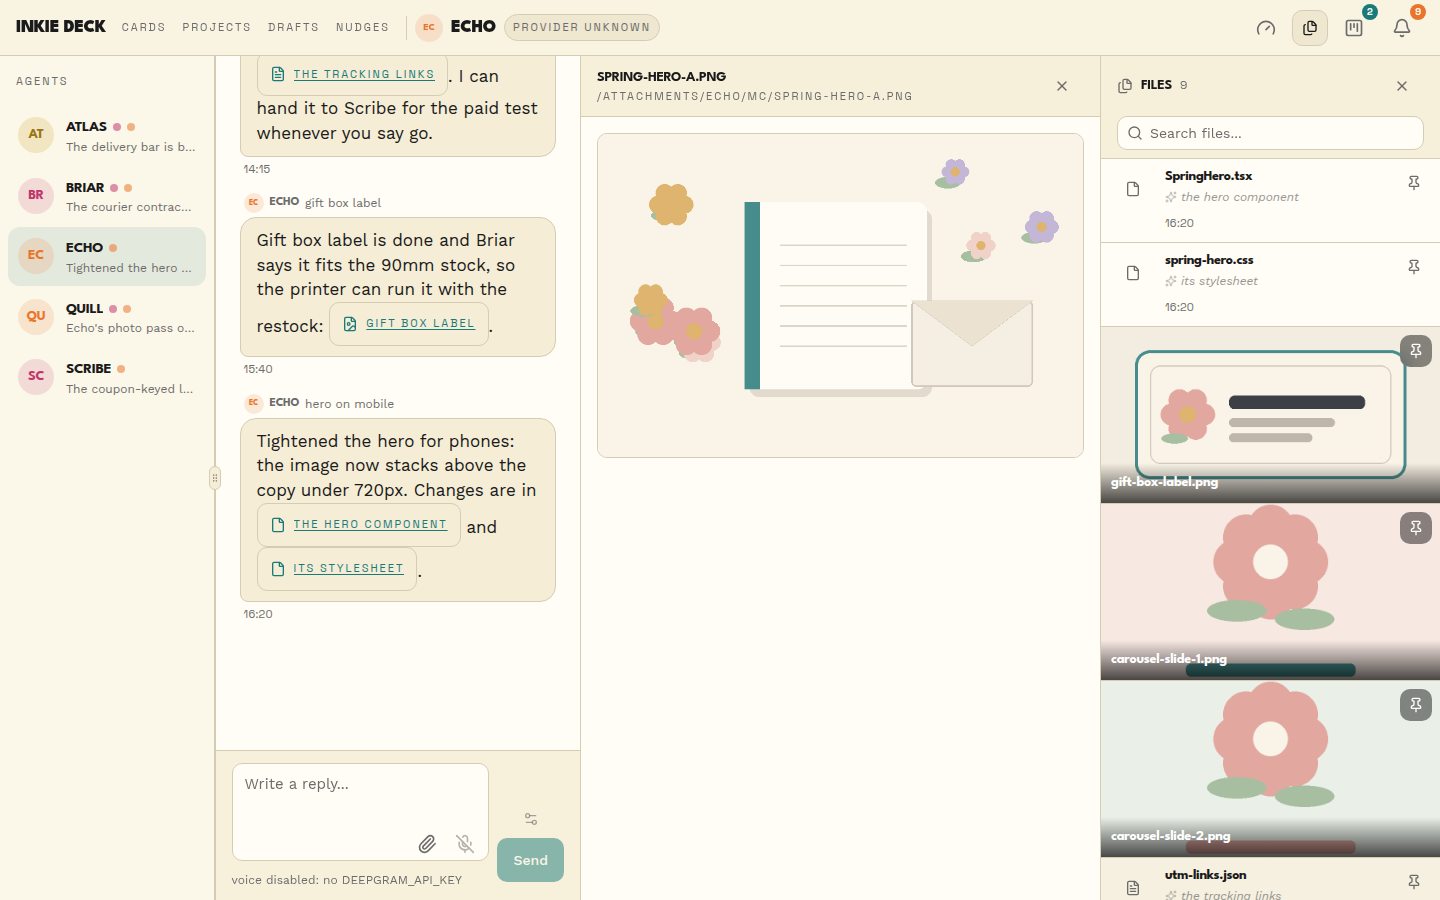
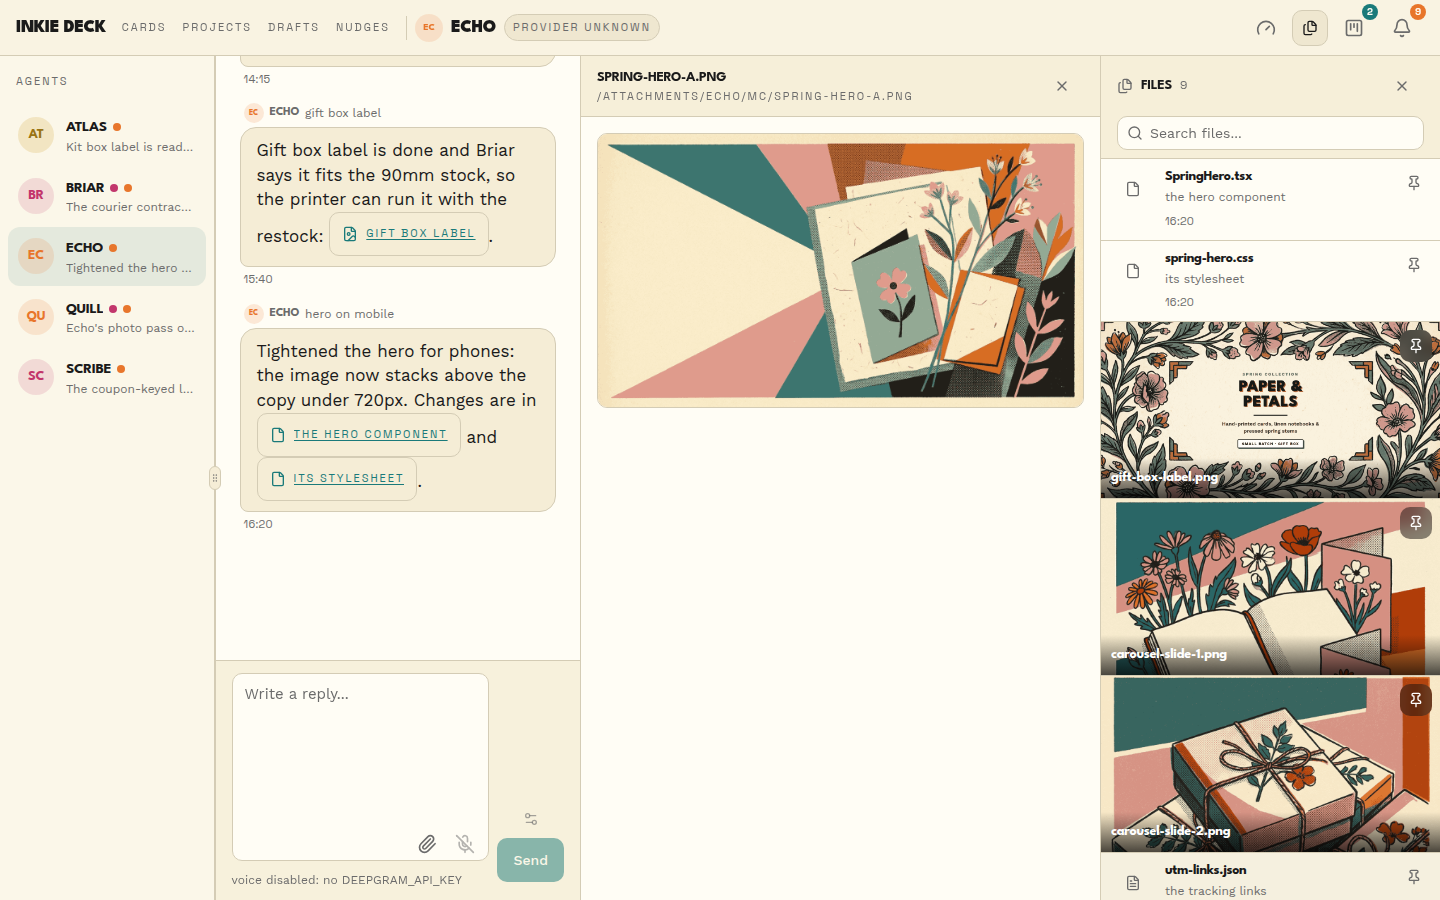
docs(readme): brand-style demo images, code preview and second-agent shots (#213)

diff --git a/packages/deck/fixtures/demo-attachments/echo/mc/SpringHero.tsx b/packages/deck/fixtures/demo-attachments/echo/mc/SpringHero.tsx
@@ -11,7 +11,7 @@ const IMAGES: Record<Variant, string> = {
 export function SpringHero({ variant = "a" }: { variant?: Variant }) {
   return (
     <section className="spring-hero">
-      <img src={IMAGES[variant]} alt="Notebook, envelope and pressed flowers" />
+      <img src={IMAGES[variant]} alt="Greeting cards and pressed flowers on a teal burst" />
       <div className="spring-hero__copy">
         <h1>Paper and petals, made to order</h1>
         <p>The spring range is here: notebooks, cards and gift boxes, pressed by hand.</p>

diff --git a/packages/deck/fixtures/demo-inbox/atlas/inbox/alex.md b/packages/deck/fixtures/demo-inbox/atlas/inbox/alex.md
@@ -47,3 +47,27 @@ The new checkout shows a free delivery bar. Where should the line sit?
 The delivery bar is built and on the preview site. It only needs the number.
 
 ---
+## 2026-06-09T14:30:00Z - from: atlas - status: read - subject: Spark and Relay launch page
+
+The bench-kit launch page for Spark and Relay is on its own preview site. Two hero options: [hero A, the tin robot](/attachments/atlas/mc/tech-hero-a.png) and [hero B, the bench oscilloscope](/attachments/atlas/mc/tech-hero-b.png). I've built it around A; say if you'd rather lead with B.
+
+---
+## 2026-06-09T14:45:00Z - from: alex - status: read - subject: Re: Spark and Relay launch page
+
+A. The robot is the shop.
+
+---
+## 2026-06-09T15:10:00Z - from: atlas - status: sent - subject: launch carousel
+
+Carousel for the kit launch is ready. Slide 1:
+
+![Carousel slide 1: local tools, built to last](/attachments/atlas/mc/tech-carousel-1.png)
+
+Slide 2 is [zero cloud, full control](/attachments/atlas/mc/tech-carousel-2.png). The page reads its hero, slides and kit list from [the launch config](/attachments/atlas/mc/spark-relay-launch.json), so swapping a slide is a one-line change.
+
+---
+## 2026-06-09T15:40:00Z - from: atlas - status: sent - subject: kit box label
+
+Kit box label is ready on the same 90mm stock as the gift boxes, so Briar can print both on one run: [kit box label](/attachments/atlas/mc/tech-product-label.png).
+
+---

diff --git a/packages/deck/fixtures/demo-inbox/echo/inbox/alex.md b/packages/deck/fixtures/demo-inbox/echo/inbox/alex.md
@@ -3,22 +3,22 @@ decision-id: TASK-HERO-1
 blocking: true
 options:
   - key: A
-    label: "Notebook with the teal spine"
-    detail: "Calm, product-first, matches the shop's teal accents."
+    label: "Greeting cards on the teal and coral burst"
+    detail: "Bold and graphic, and it matches the shop's teal accents."
   - key: B
-    label: "Sage background with the rose spine"
-    detail: "Softer and more seasonal, but the product reads less clearly."
-lean: "A - the product is the hero, the flowers are the garnish."
+    label: "Notebooks and a gift box on plain cream"
+    detail: "Softer and quieter, but the products sit small in one corner."
+lean: "A - it stops the scroll; B leaves the left half empty."
 answered: A
 
 **The call:**
-Two hero images for the spring homepage: [hero A, teal spine](/attachments/echo/mc/spring-hero-a.png) and [hero B, sage and rose](/attachments/echo/mc/spring-hero-b.png).
+Two hero images for the spring homepage: [hero A, teal burst](/attachments/echo/mc/spring-hero-a.png) and [hero B, notebooks on cream](/attachments/echo/mc/spring-hero-b.png).
 Which one leads?
 
 ---
 ## 2026-06-08T10:20:00Z - from: alex - status: read - subject: Re: homepage hero image
 
-A. The teal spine looks like us.
+A. The teal looks like us.
 
 ---
 ## 2026-06-08T15:00:00Z - from: echo - status: read - subject: hero section built

diff --git a/README.md b/README.md
@@ -18,9 +18,17 @@ Inkie Deck is open source under the [Apache-2.0 licence](LICENSE).
 
 *An agent thread keeps the decision, your answer and the agent's update together.*
 
+![A second agent's thread with a launch carousel slide shown inline and links to the kit label and a config file](docs/images/agent-thread-tech.png)
+
+*Agents share work as inline images and links to files, so a launch carousel arrives as something you can see, not a description.*
+
 ![Review panel with a file list of generated images and code files, and a hero image previewed beside the thread](docs/images/review-panel.png)
 
 *Files an agent produces open beside the thread: generated images, code and notes, searchable and ready to review.*
+
+![A second agent's thread with an inline carousel slide and a link to its launch config, beside the same config open as highlighted JSON](docs/images/code-preview.png)
+
+*Code opens in the same panel with syntax highlighting, so a config file an agent wrote can be read next to the conversation about it.*
 
 ![Project board with twelve cards across to do, in progress, blocked, in review and done](docs/images/project-board.png)
 

diff --git a/.specs/213-readme-sales-page/SPEC.md b/.specs/213-readme-sales-page/SPEC.md
@@ -45,6 +45,7 @@ Out of scope: install and contributing text, any app behaviour, the logo
   normal install, corrected two script and protocol paths, aligned `CLAUDE.md`.
 - 2026-11-18: richer screenshots and demo fixtures added at the maintainer's
   request.
+- 2026-11-18: demo images replaced with two brand-style sets (a paper shop and a retro-robot tech shop, on two agents), a JSON code-preview shot and a second thread shot added; `scripts/capture-readme-screenshots.mjs` keeps the captures reproducible.
 - 2026-11-18: SPEC and issue added after the automated review pointed out their
   absence (retrospective; the work above predates this file).
 
